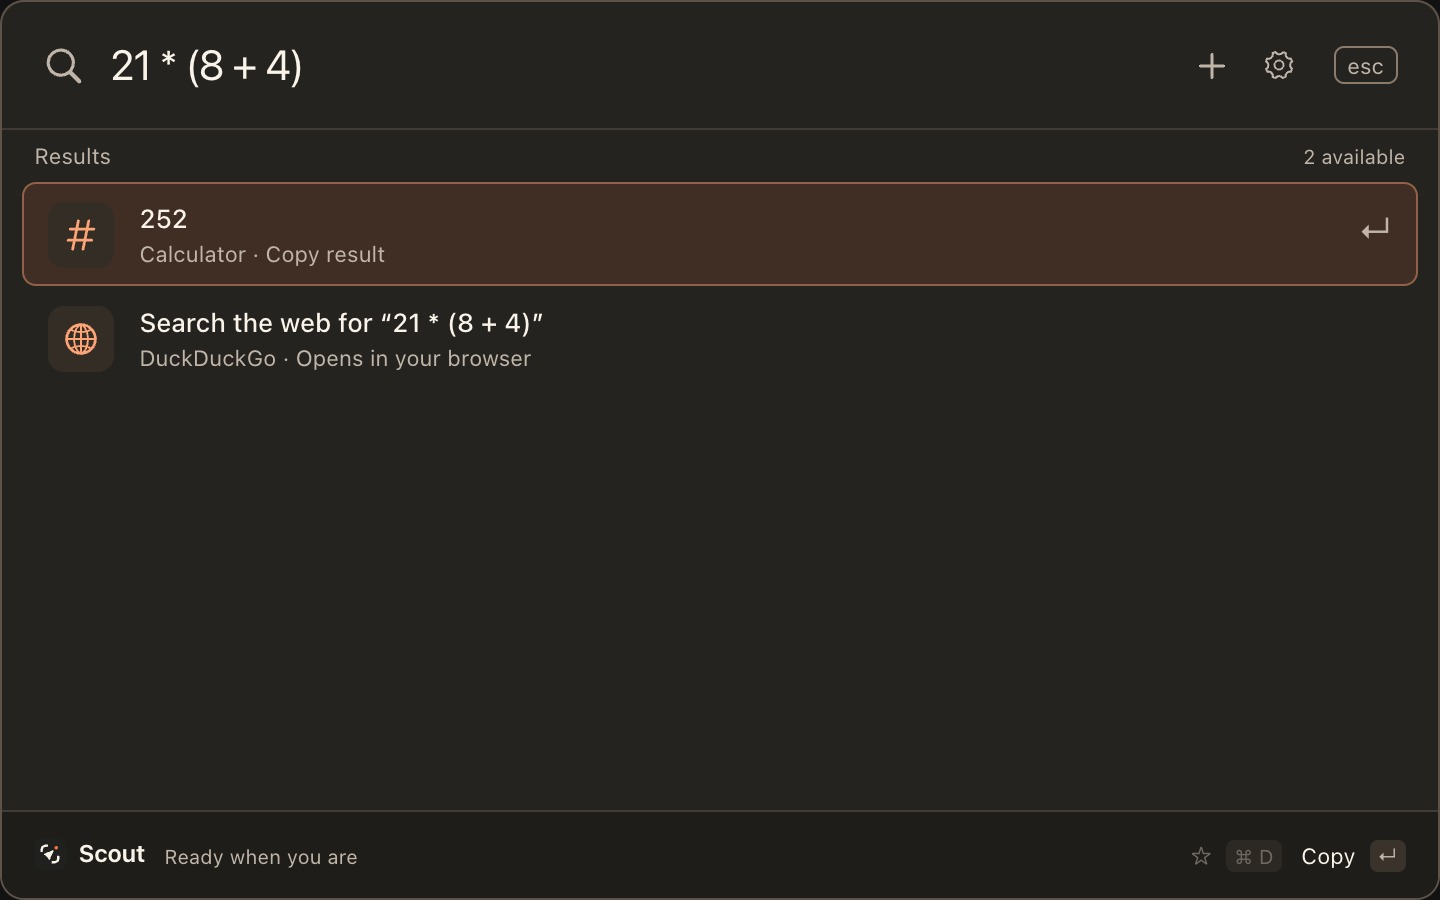
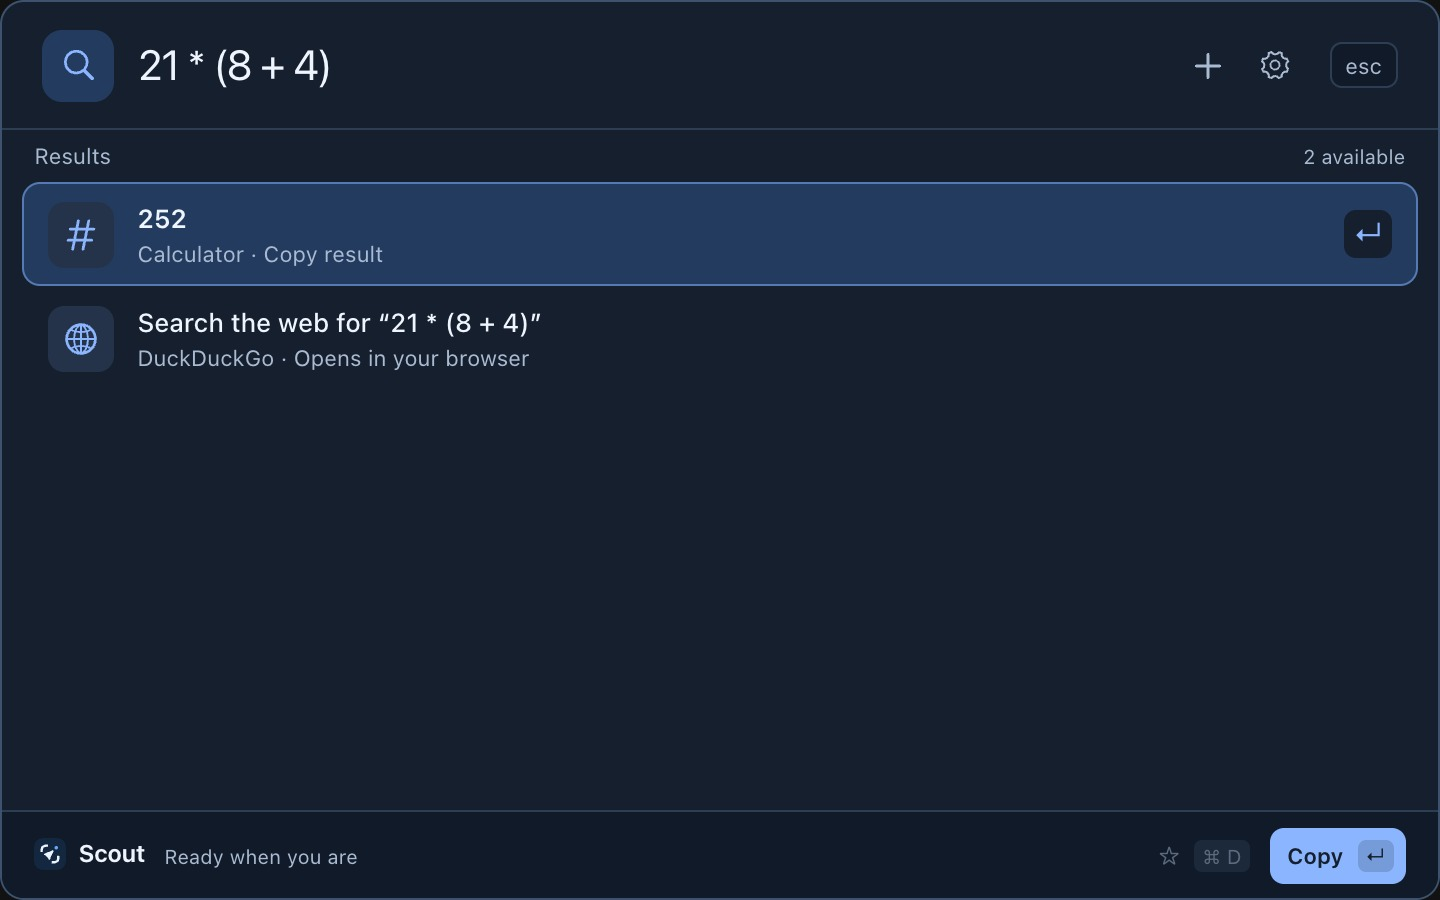
chore(store): prepare Scout 1.0.1 blue listing assets

diff --git a/app-store.config.ts b/app-store.config.ts
@@ -2,7 +2,7 @@ import type { NativeAppStoreMetadata } from 'ts-pantry/native'
 
 export default {
   locale: 'en-US',
-  reviewNotes: 'Launchpad has been renamed Scout. The App Store listing is Scout by Stacks. The app includes the Scout app icon and improved keyboard scrolling in the search results. Newly installed apps are discovered when search opens and while it stays visible. Scout has no Dock icon. On first launch, General settings lets the user opt into launch at login. Subsequent starts stay hidden until Command + Space or the Scout menu bar icon is used. General settings also shows the actual macOS login registration status. Scout is a free keyboard launcher. Command + Space opens and focuses search; Escape and outside clicks dismiss it. Clipboard capture is opt in and text stays local. Usage records stay in the local model API. Public GitHub search works without an account. Pantry catalog search works without the Pantry CLI. Installation controls connect to a separately installed Pantry CLI service using a user-entered, single-use pairing code and a Keychain token. That external process installs selected catalog packages into user locations, including applications, libraries, command line tools and fonts. The Store app does not embed or spawn the installer. This external installer behavior is included for review; it is not hidden behind another distribution edition. Network entitlements: com.apple.security.network.server is required because the bundled helper process, stx-backend in Contents/MacOS, hosts the interface and the local model API for the app web view. It binds only to 127.0.0.1 on an ephemeral port, rejects any other host header or origin, and accepts one session token that exists only in that launch. It never listens on an external interface and no remote device can reach it. Without this entitlement the sandbox denies the bind and the app cannot open its window. com.apple.security.network.client is used for GitHub searches, Pantry catalog and logo downloads, and the loopback connection to the user-installed Pantry CLI service. Change for this submission: the bundled stx-backend uses Bun built with the upstream Unicode ICU 78.2 implementation. ICU is linked statically. The two bundled executables no longer import Apple’s system ICU library or the ICU symbols identified in the previous review. To verify the local service, disconnect from the internet, open the menu bar item and search for an installed app or run a calculation. The helper is stopped when the app quits.',
+  reviewNotes: 'The App Store listing is Scout by Stacks. This update refreshes the blue light and dark palettes, the Scout app icon, and all seven Mac screenshots. The marketing website is https://scout.stacksjs.com. Search results support keyboard scrolling. Newly installed apps are discovered when search opens and while it stays visible. Scout has no Dock icon. On first launch, General settings lets the user opt into launch at login. Subsequent starts stay hidden until Command + Space or the Scout menu bar icon is used. General settings also shows the actual macOS login registration status. Scout is a free keyboard launcher. Command + Space opens and focuses search; Escape and outside clicks dismiss it. Clipboard capture is opt in and text stays local. Usage records stay in the local model API. Public GitHub search works without an account. Pantry catalog search works without the Pantry CLI. Installation controls connect to a separately installed Pantry CLI service using a user-entered, single-use pairing code and a Keychain token. That external process installs selected catalog packages into user locations, including applications, libraries, command line tools and fonts. The Store app does not embed or spawn the installer. This external installer behavior is included for review; it is not hidden behind another distribution edition. Network entitlements: com.apple.security.network.server is required because the bundled helper process, stx-backend in Contents/MacOS, hosts the interface and the local model API for the app web view. It binds only to 127.0.0.1 on an ephemeral port, rejects any other host header or origin, and accepts one session token that exists only in that launch. It never listens on an external interface and no remote device can reach it. Without this entitlement the sandbox denies the bind and the app cannot open its window. com.apple.security.network.client is used for GitHub searches, Pantry catalog and logo downloads, and the loopback connection to the user-installed Pantry CLI service. Change for this submission: the bundled stx-backend uses Bun built with the upstream Unicode ICU 78.2 implementation. ICU is linked statically. The two bundled executables no longer import Apple’s system ICU library or the ICU symbols identified in the previous review. To verify the local service, disconnect from the internet, open the menu bar item and search for an installed app or run a calculation. The helper is stopped when the app quits.',
   subtitle: 'Your keyboard. More useful.',
   privacyPolicyUrl: 'https://github.com/stacksjs/launchpad/blob/main/PRIVACY.md',
   description: `Bring everyday actions to your keyboard.

diff --git a/README.md b/README.md
@@ -206,7 +206,7 @@ Run a Store qualification using the authenticated GitHub CLI. The marketing vers
 bun run release:app-store -f version=1.0.1 -f build-number=175 -f mode=validate
 ```
 
-The `Mac App Store` workflow checks the pinned Bun archive and executable, then uses the released Pantry SDK to build, sign, and validate the package. It saves the signed package and Apple's receipt with the workflow run. Set `mode=submit` when ready to upload the package, apply its listing assets, and submit for review. The submit command checks for an active Mac review or pending release before uploading.
+The `Mac App Store` workflow checks the pinned Bun archive and executable, then uses the released Pantry SDK to build, sign, and validate the package. It saves the signed package and Apple's receipt with the workflow run, along with a separate artifact for the listing metadata and screenshots. Set `mode=submit` when ready to upload the package, apply its listing assets, and submit for review. The submit command checks for an active Mac review or pending release before uploading.
 
 For App Store packaging, put the Bun build with upstream ICU first in `PATH` before running Buddy. The native build uses that Bun executable to compile `Contents/MacOS/stx-backend`. Verify the final signed bundle with `otool -L` and `nm -um` before upload. Both the Craft executable and the helper must pass without an import from Apple's `libicucore`. Keep the ICU license with the release. [Stacks desktop packaging guide](https://github.com/stacksjs/stacks/blob/main/docs/packages/desktop.md).
 
